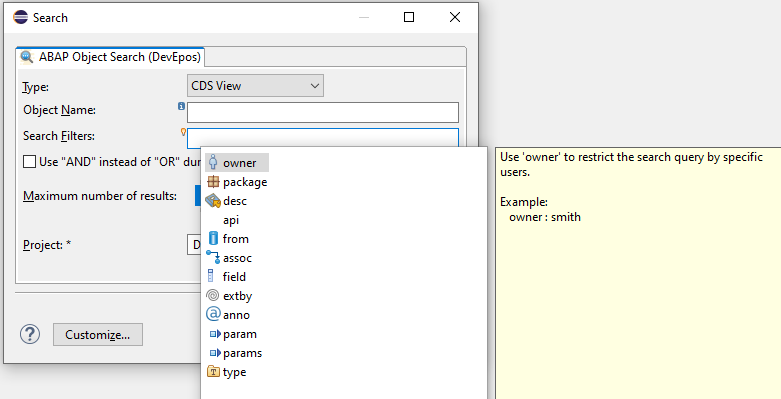
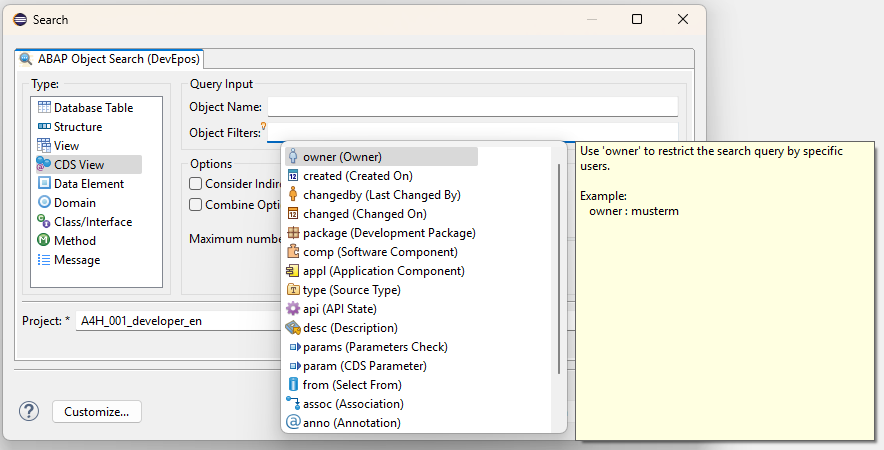
feat: update plug-in information for open devepos object search

Changed region(s): [[0.0, 0.0, 1.0, 1.0], [0.0, 0.782, 0.1844, 0.8722]]

diff --git a/docs/plug-ins/open-source-adt-plugins.md b/docs/plug-ins/open-source-adt-plugins.md
@@ -265,20 +265,26 @@ Voraussetzungen Eclipse:
 Voraussetzungen ABAP:
 
 - SAP NetWeaver 7.40 SP08 oder neuer
-- abapGit repository [abap-tags-backend](https://github.com/stockbal/abap-tags-backend) muss installiert sein
+- abapGit repository [abap-tags-backend](https://github.com/DevEpos/abap-tags-backend) muss installiert sein
 
 Links:
 
-- Source-Code auf [GitHub](https://github.com/stockbal/abap-tags-ui)
+- Source-Code auf [GitHub](https://github.com/DevEpos/eclipse-adt-plugins/tree/main/features/tags)
 - [Eclipse Marketplace](https://marketplace.eclipse.org/content/abap-tags) (Marketplace Client muss installiert sein)
 
 ## ABAP Search and Analysis Tools
 
 Dieses Plug-in erweitert die ADT um weitere Such- und Analysefunktionen für die folgenden Objekttypen:
 
-- Klasse/Interface
-- Datenbanktabelle/-view
 - CDS View
+- Datenbanktabelle
+- Datenbankview
+- Struktur
+- Datenelement
+- Domäne
+- Klasse/Interface
+- Methode
+- Nachricht (in Nachrichtenklasse)
 
 Die Suchfunktionen sind in den Eclipse-Search-Dialog integriert (<kbd>Strg</kbd>+<kbd>H</kbd>). Die Bedienung ist dabei ähnlich wie beim Dialog "Open ABAP Development Object" (<kbd>Strg</kbd>+<kbd>Shift</kbd>+<kbd>A</kbd>). Den Objekttyp kann man mittels Dropdown ändern. Dieser steuert unter anderem die verfügbaren Filter im Feld "Search Filters".
 
@@ -309,11 +315,11 @@ Voraussetzungen Eclipse:
 Voraussetzungen ABAP:
 
 - SAP NetWeaver 7.40 SP08 oder neuer
-- abapGit repository [abap-search-tools](https://github.com/stockbal/abap-search-tools) muss installiert sein
+- abapGit repository [abap-search-tools](https://github.com/DevEpos/abap-search-tools) muss installiert sein
 
 Links:
 
-- Source-Code auf [GitHub](https://github.com/stockbal/abap-search-tools-ui)
+- Source-Code auf [GitHub](https://github.com/DevEpos/eclipse-adt-plugins/tree/main/features/search-tools)
 - [Eclipse Marketplace](https://marketplace.eclipse.org/content/abap-search-and-analysis-tools) (Marketplace Client muss installiert sein)
 
 ## ABAP Code Search
@@ -338,11 +344,11 @@ Voraussetzungen Eclipse:
 Voraussetzungen ABAP:
 
 - SAP NetWeaver 7.40 SP08 oder neuer
-- abapGit repository [abap-code-search-tools](https://github.com/stockbal/abap-code-search-tools) muss installiert sein
+- abapGit repository [abap-code-search-tools](https://github.com/DevEpos/abap-code-search-tools) muss installiert sein
 
 Links:
 
-- Source-Code auf [GitHub](https://github.com/stockbal/abap-code-search-tools)
+- Source-Code auf [GitHub](https://github.com/DevEpos/abap-code-search-tools)
 - [Eclipse Marketplace](https://marketplace.eclipse.org/content/abap-code-search) (Marketplace Client muss installiert sein)
 
 ## abapGit Eclipse Plug-in
